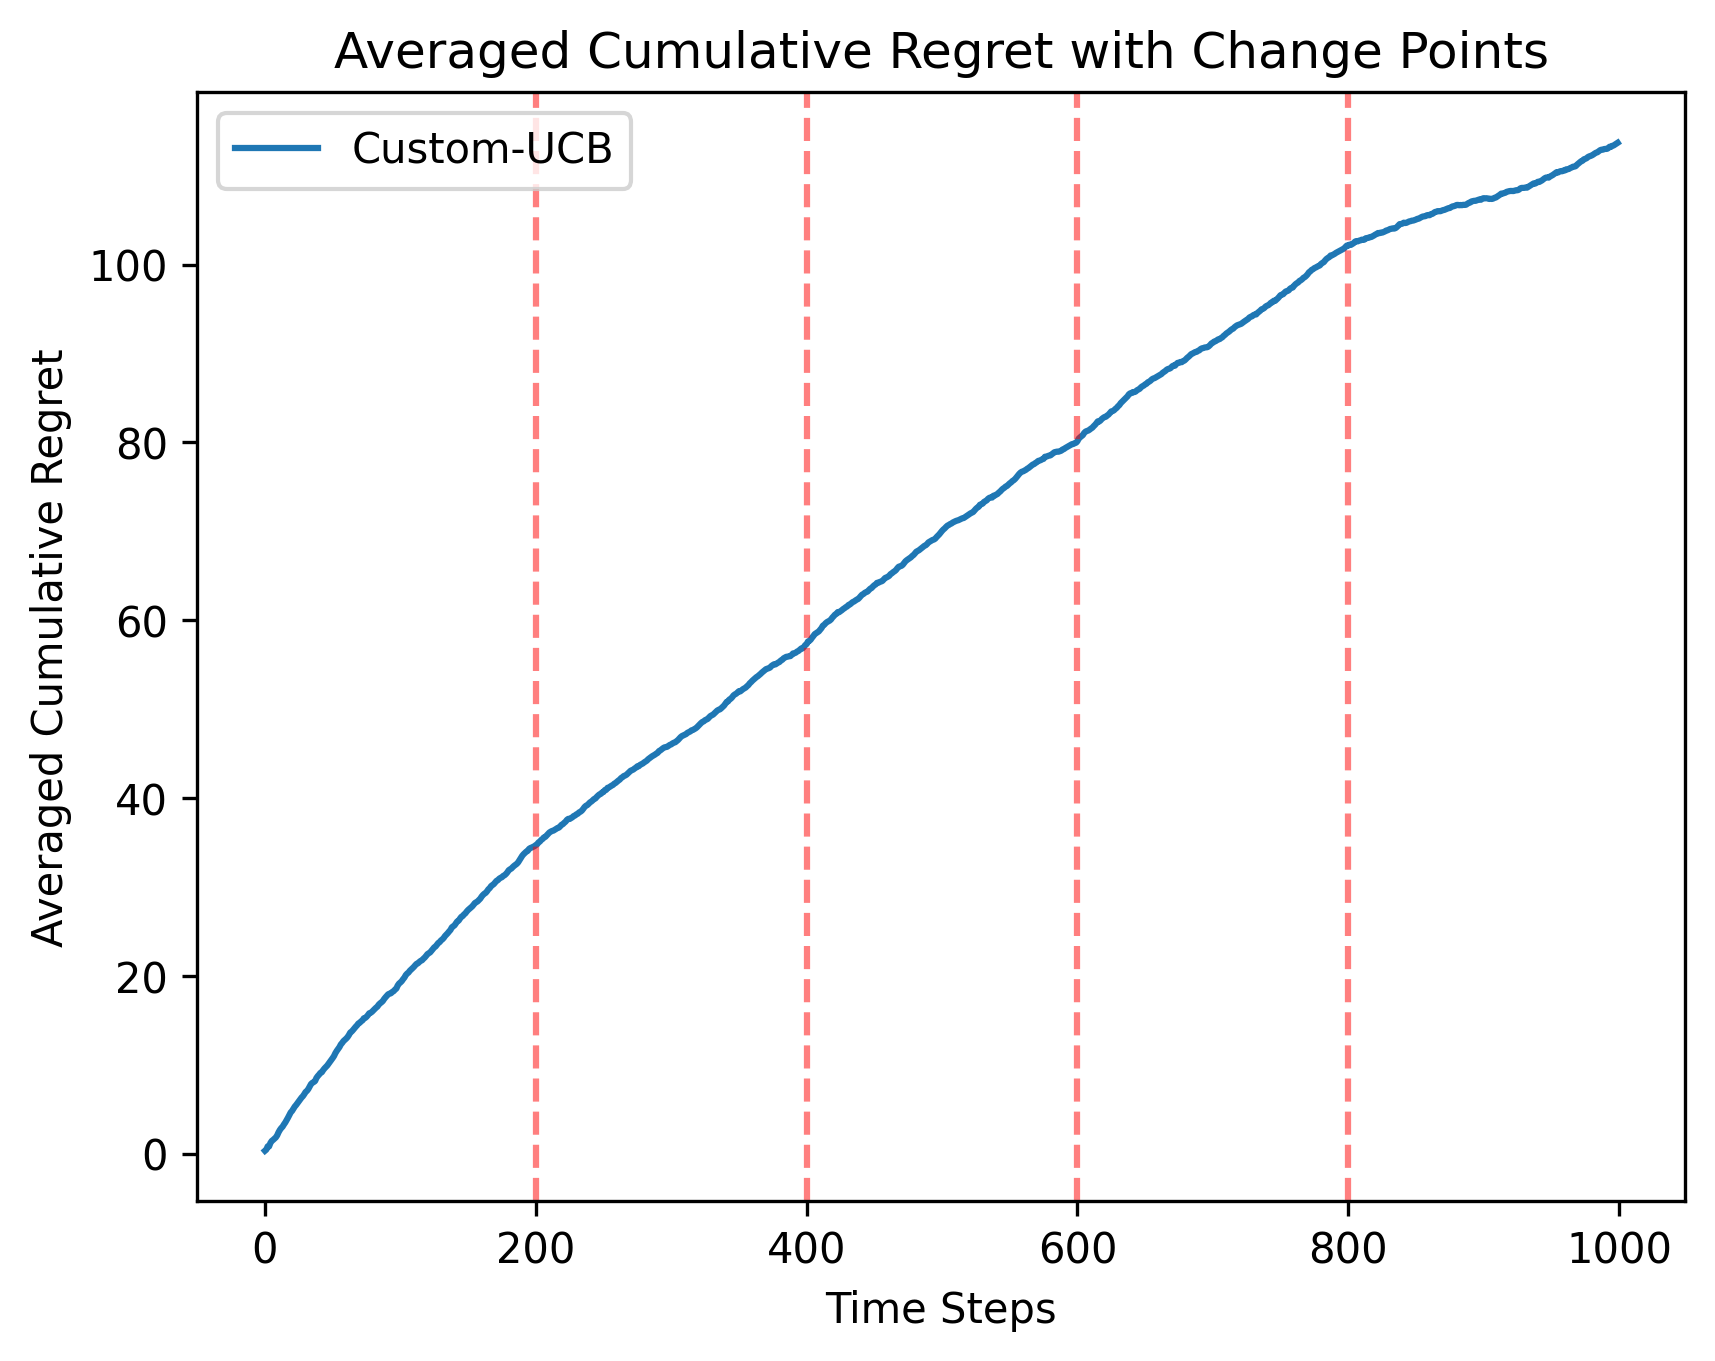
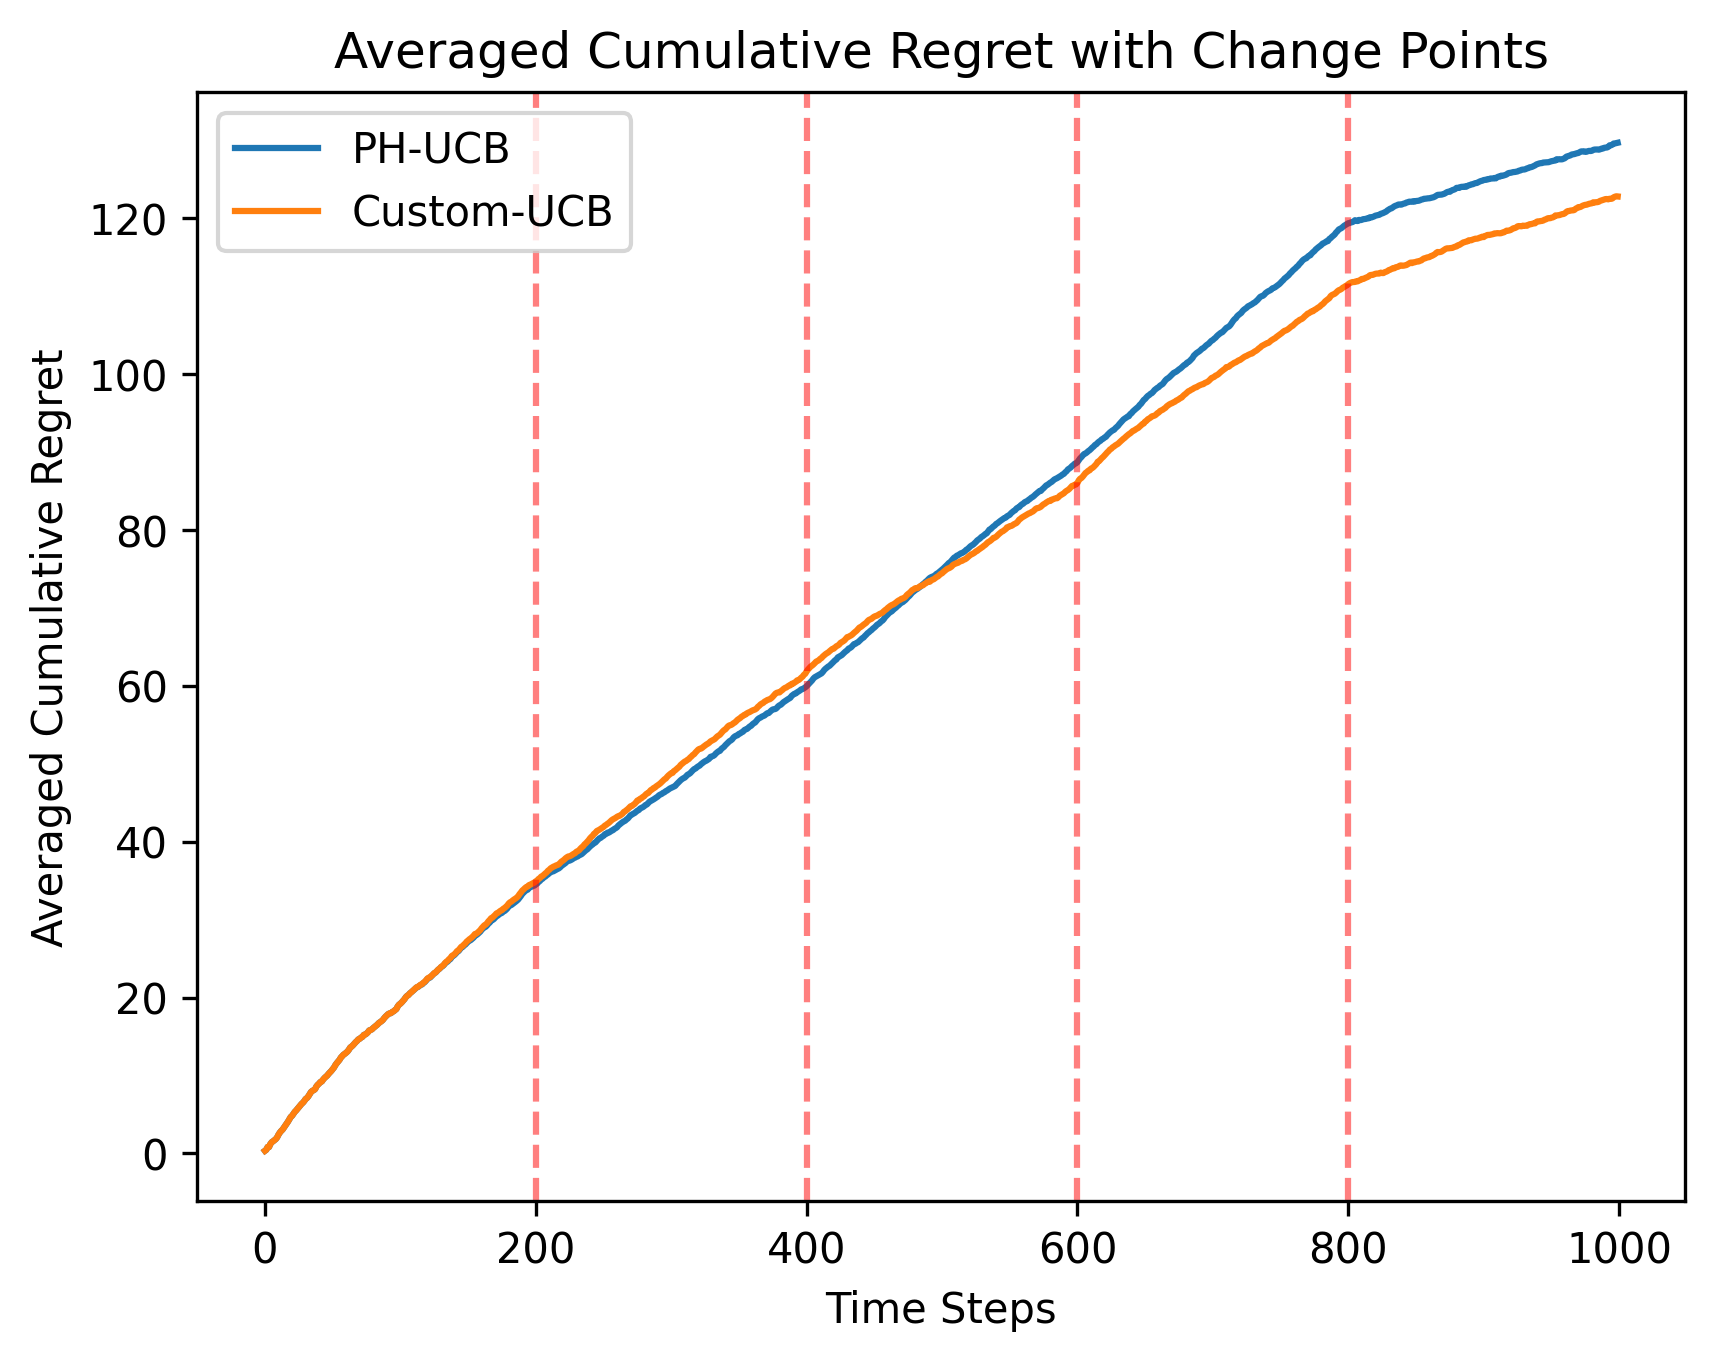
update cpds to use river

diff --git a/src/cmab/algorithms/cpd/ph_cpd.py b/src/cmab/algorithms/cpd/ph_cpd.py
@@ -22,47 +22,18 @@ class PageHinkleyCPD(BaseCPD):
 
     def _initialize_ph_state(self) -> dict[tuple[int, ...], dict[str, float]]:
         ph_state = {}
-        ph = {}
         parent_cfgs = list(product([0, 1], repeat=len(self.parents)))  # Currently only binary variables, TODO: extend to use domains
         for cfg in parent_cfgs:
-            ph_state[cfg] = {'t': 0, 'mean': 0.0, 'm_pos': 0.0, 'M_pos': 0.0, 'm_neg': 0.0, 'M_neg': 0.0}
-            ph[cfg] = drift.PageHinkley()
+            ph_state[cfg] = drift.PageHinkley(delta=self.delta, threshold=self.lambda_, min_instances=self.min_samples_for_detection)
         return ph_state
     
     def update(self, observation: Observation) -> bool:
          cfg = tuple(int(observation[p]) for p in self.parents)
-         self.ph[cfg].update(observation[self.node])
-         return self.ph[cfg].drift_detected
+         print(f"Updating CPD for node {self.node} with parent configuration {cfg} and observation {observation[self.node]}")  # Debug print
 
-    def _update(self, observation: Observation) -> bool:
-            cfg = tuple(int(observation[p]) for p in self.parents)
-            print(f"Updating CPD for node {self.node} with parent configuration {cfg} and observation {observation[self.node]}")  # Debug print
+         self.ph_state[cfg].update(observation[self.node])
+         return self.ph_state[cfg].drift_detected
 
-            x = observation[self.node]
-
-            # Online PH update
-            state = self.ph_state[cfg]
-
-            state['t'] += 1
-            prev_mean = state['mean']
-            mean = prev_mean + (x - prev_mean) / state['t'] # running mean
-            state['mean'] = mean
-
-            state['m_pos'] += x - mean + self.delta # cumulative positive deviation
-            state['M_pos'] = min(state['M_pos'], state['m_pos'])  # minimum positive deviation
-            state['m_neg'] += mean - x + self.delta # cumulative negative deviation
-            state['M_neg'] = max(state['M_neg'], state['m_neg'])  # minimum negative deviation
-
-            # compute PH statistic
-            ph_pos = state['m_pos'] - state['M_pos']
-            ph_neg = state['m_neg'] - state['M_neg']
-
-            print(f"PH state for node {self.node}, cfg {cfg}: t={state['t']}, mean={state['mean']}, m_pos={state['m_pos']}, M_pos={state['M_pos']}, m_neg={state['m_neg']}, M_neg={state['M_neg']}, ph_pos={ph_pos}, ph_neg={ph_neg}")  # Debug print
-
-            if state['t'] >= self.min_samples_for_detection and (ph_pos > self.lambda_ or ph_neg > self.lambda_):
-                return True
-        
-            return False
 
     def reset(self) -> None:
         """Resets the PH state."""
@@ -79,32 +50,16 @@ class ArmLevelPageHinkleyCPD(BaseCPD):
         self.delta = delta  # tolerance for PH test
         self.lambda_ = lambda_  # threshold for PH test
         self.min_samples_for_detection = min_samples_for_detection
-        self.ph_state = {'t': 0, 'mean': 0.0, 'm_pos': 0.0, 'M_pos': 0.0, 'm_neg': 0.0, 'M_neg': 0.0}
+        self.ph_state = drift.PageHinkley(delta=self.delta, threshold=self.lambda_, min_instances=self.min_samples_for_detection)
 
 
     def update(self, reward: float) -> bool:
             # Online PH update
-            self.ph_state['t'] += 1
-            prev_mean = self.ph_state['mean']
-            mean = prev_mean + (reward - prev_mean) / self.ph_state['t'] # running mean
-            self.ph_state['mean'] = mean
-
-            self.ph_state['m_pos'] += (reward - mean ) - self.delta # cumulative positive deviation
-            self.ph_state['M_pos'] = min(self.ph_state['M_pos'], self.ph_state['m_pos'])  # minimum positive deviation
-            self.ph_state['m_neg'] += (mean - reward) - self.delta # cumulative negative deviation
-            self.ph_state['M_neg'] = min(self.ph_state['M_neg'], self.ph_state['m_neg'])  # minimum negative deviation
-
-            # compute PH statistic
-            ph_pos = self.ph_state['m_pos'] - self.ph_state['M_pos']
-            ph_neg = self.ph_state['m_neg'] - self.ph_state['M_neg']
-
-            if self.ph_state['t'] >= self.min_samples_for_detection and (ph_pos > self.lambda_ or ph_neg > self.lambda_):
-                return True
-        
-            return False
+        self.ph_state.update(reward)
+        return self.ph_state.drift_detected
     
 
     def reset(self) -> None:
         """Resets the PH state."""
-        self.ph_state = {'t': 0, 'mean': 0.0, 'm_pos': 0.0, 'M_pos': 0.0, 'm_neg': 0.0, 'M_neg': 0.0}
+        self.ph_state = drift.PageHinkley(delta=self.delta, threshold=self.lambda_, min_instances=self.min_samples_for_detection)
         

diff --git a/experiments/nonstationary/simple.py b/experiments/nonstationary/simple.py
@@ -67,7 +67,7 @@ def main():
 
     agents = {
         # Arm level CPD
-        #'PH-UCB': PageHinkleyUCBAgent(reward_node=reward_node, arms=env.action_space, c=c, delta=delta, lambda_=lambda_, min_samples_for_detection=min_samples_for_detection, reset_all=True),
+        'PH-UCB': PageHinkleyUCBAgent(reward_node=reward_node, arms=env.action_space, c=c, delta=delta, lambda_=lambda_, min_samples_for_detection=min_samples_for_detection, reset_all=True),
         #'PH-UCB-arm': PageHinkleyUCBAgent(reward_node=reward_node, arms=env.action_space, c=c, delta=delta, lambda_=lambda_, min_samples_for_detection=min_samples_for_detection, reset_all=False),
         #'SW-UCB': SlidingWindowUCBAgent(reward_node=reward_node, arms=env.action_space, c=c, window_size=100),
         # Node level CPD
